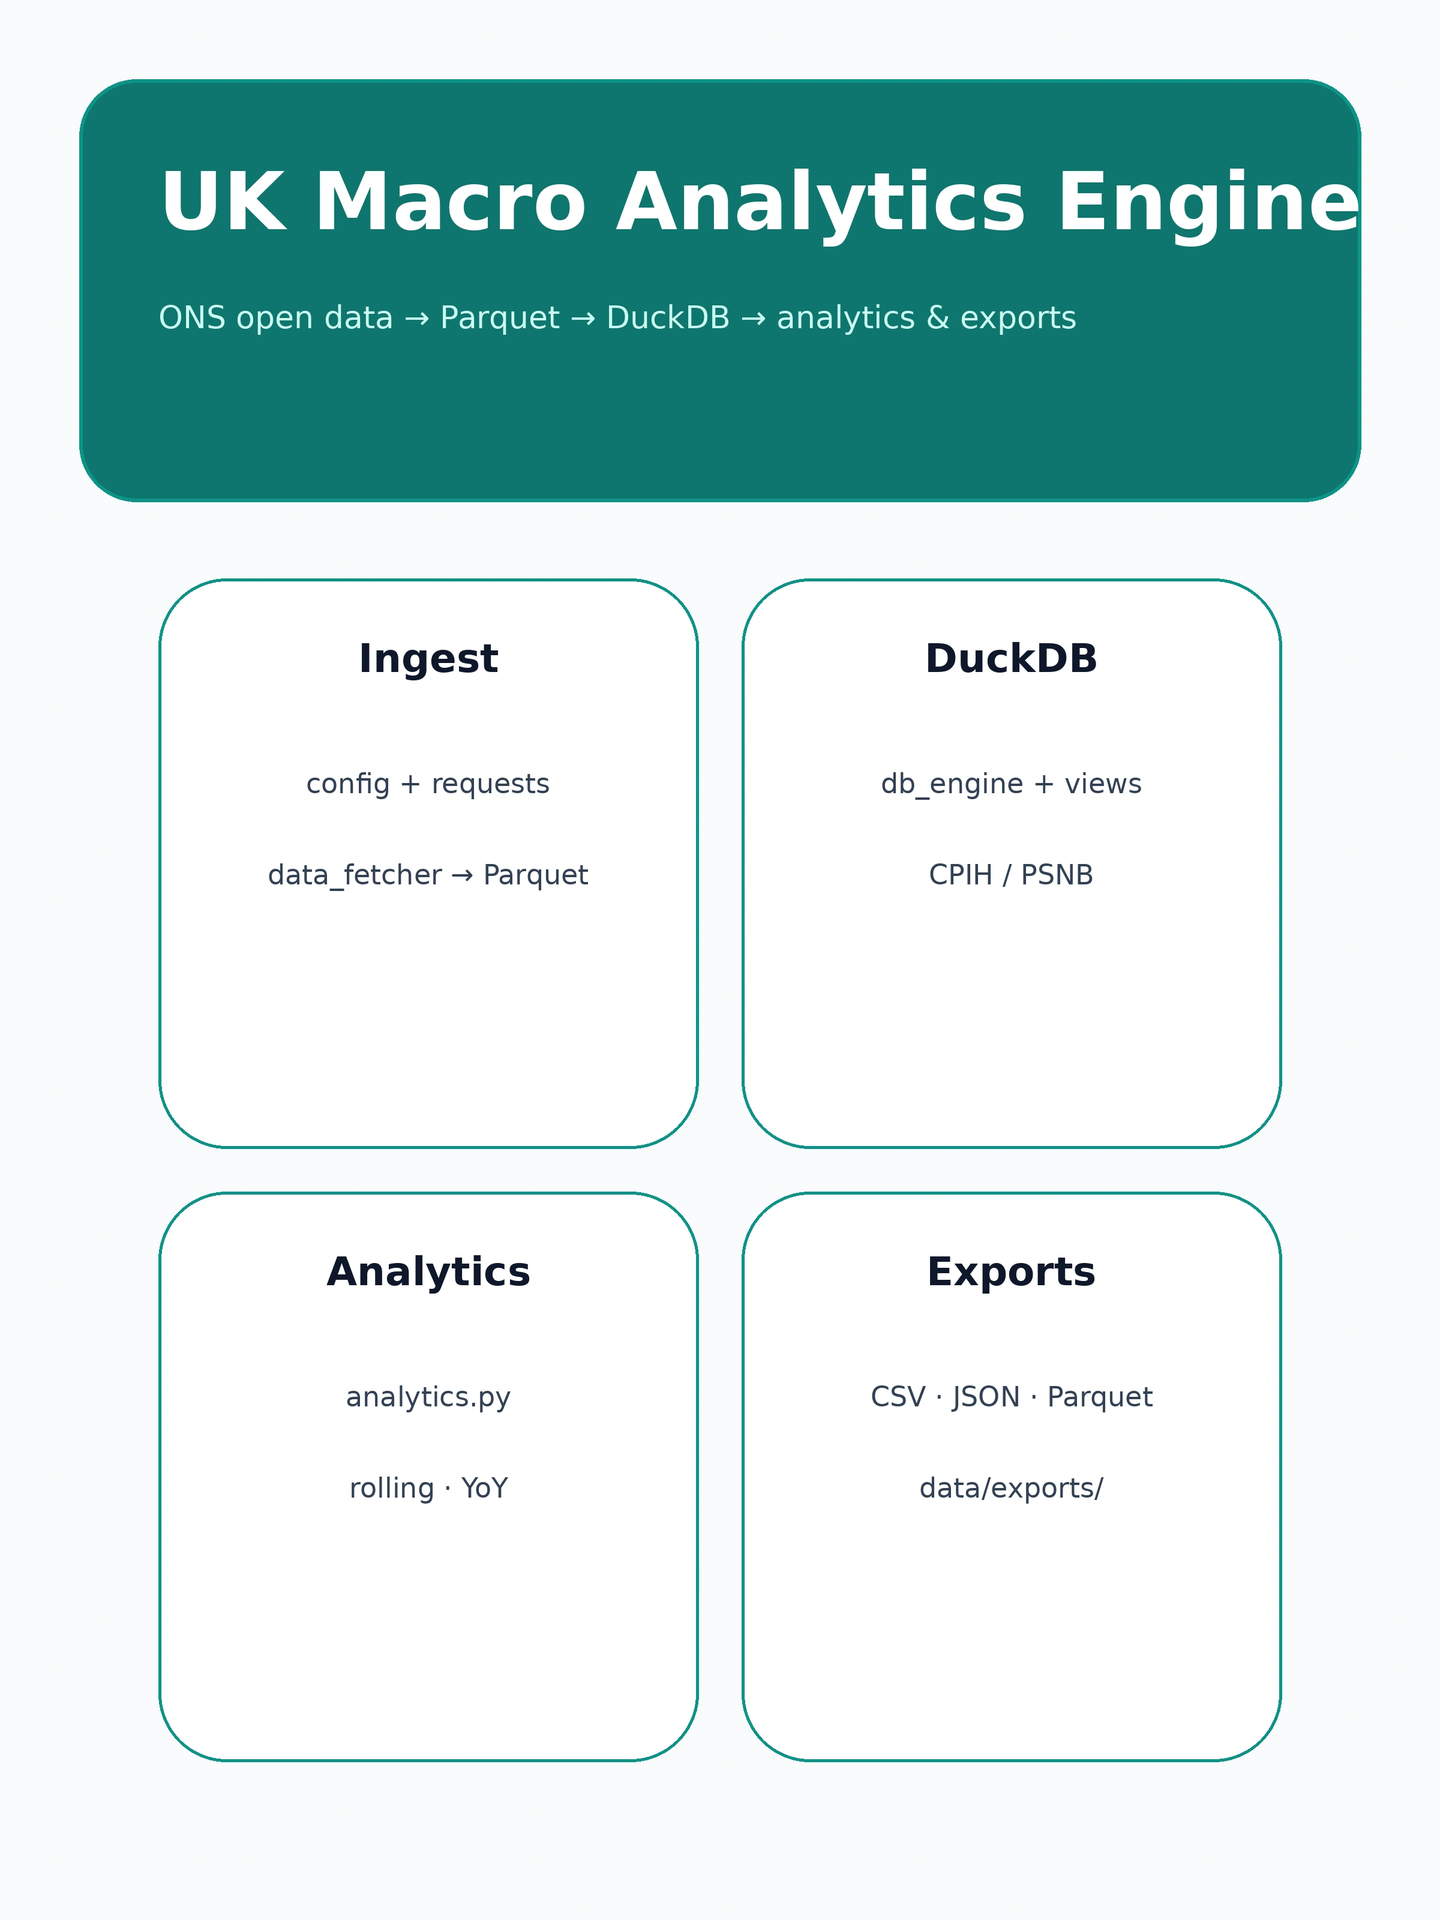
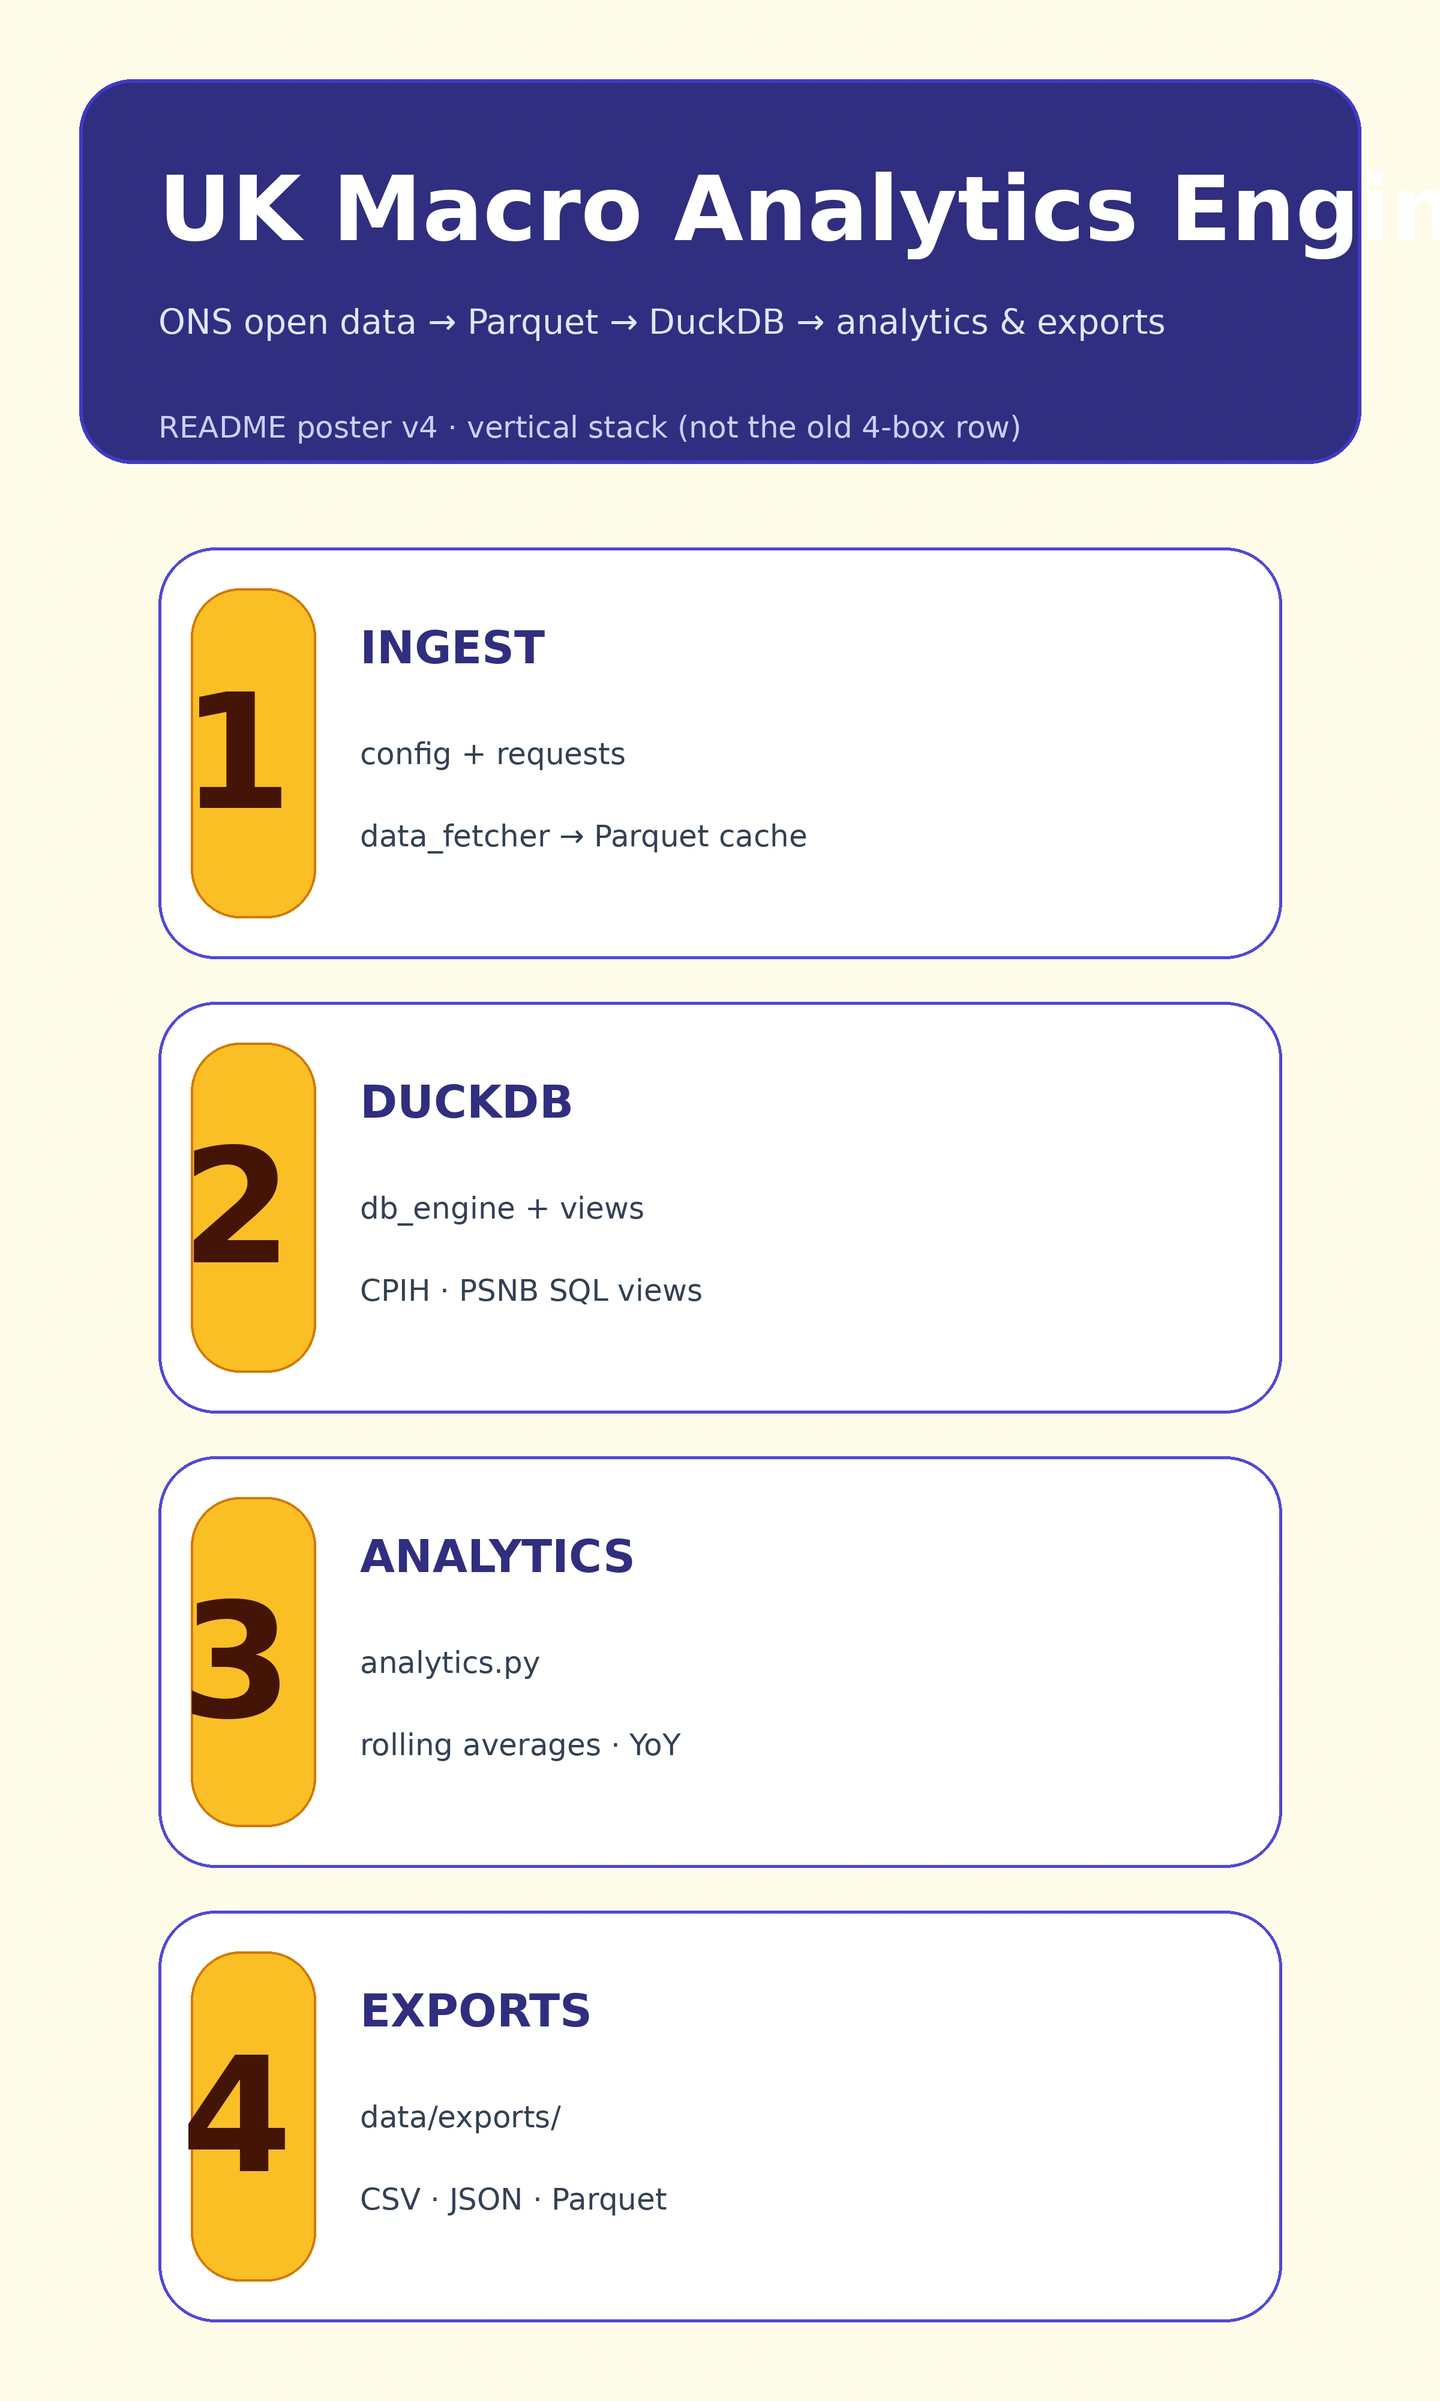
docs: distinct poster v4 graphics + cache-busting for README images
- Hero: indigo header and numbered vertical steps (no four-box row).
- Architecture: matches SVG with badge numbers; warm poster background.
- README: ?v=4 on PNG URLs to defeat GitHub/Camo stale cache on mobile.

diff --git a/tools/regen_readme_images.py b/tools/regen_readme_images.py
@@ -21,16 +21,16 @@ from PIL import Image, ImageDraw, ImageFont
 
 ROOT = Path(__file__).resolve().parent.parent
 
-# Flat high-contrast palette (teal + slate) — solid fills read sharper than gradients
-# when GitHub scales images on narrow viewports.
-BG = (248, 250, 252)  # slate-50
-HEADER = (15, 118, 110)  # teal-700
-HEADER_STROKE = (13, 148, 136)  # teal-600
+# High-contrast “poster” palette — indigo header reads very different from earlier teal banners.
+BG = (254, 252, 232)  # amber-50 (warm canvas)
+HEADER = (49, 46, 129)  # indigo-900
+HEADER_STROKE = (67, 56, 202)  # indigo-700
+ACCENT_BADGE = (251, 191, 36)  # amber-400 (step numbers)
 TEXT = (15, 23, 42)  # slate-900
 TEXT_MUTED = (51, 65, 85)  # slate-700
 CARD = (255, 255, 255)
-OUTLINE = (13, 148, 136)  # teal-600
-SUBTITLE_ON_HEADER = (204, 251, 241)  # teal-100
+OUTLINE = (79, 70, 229)  # indigo-600
+SUBTITLE_ON_HEADER = (224, 231, 255)  # indigo-100
 
 
 def _fonts(
@@ -48,6 +48,13 @@ def _fonts(
         return d, d, d, d
 
 
+def _font_bold(px: int) -> ImageFont.FreeTypeFont:
+    try:
+        return ImageFont.truetype("/usr/share/fonts/truetype/dejavu/DejaVuSans-Bold.ttf", px)
+    except OSError:
+        return ImageFont.load_default()
+
+
 def _save_webp(img: Image.Image, path: Path, quality: int = 93) -> None:
     img.save(path, format="WEBP", quality=quality, method=6)
 
@@ -57,157 +64,223 @@ def _save_png(img: Image.Image, path: Path) -> None:
 
 
 def render_hero(width: int = 2400) -> Image.Image:
-    """Tall poster: large title block + 2×2 stage grid (readable on narrow screens)."""
-    # 3:4 portrait — lots of vertical space for type at full README width
-    height = int(width * 4 / 3)
+    """Tall poster: indigo header + numbered vertical stack (unmistakable vs old 4-pill row)."""
+    height = int(width * 5 / 3)
     img = Image.new("RGB", (width, height), color=BG)
     d = ImageDraw.Draw(img)
 
     pad = int(width * 0.055)
-    title_h = int(height * 0.22)
-    f_title, f_sub, f_pill, f_small = _fonts(
-        max(64, width // 18),
-        max(34, width // 46),
-        max(40, width // 36),
-        max(28, width // 52),
+    title_h = int(height * 0.16)
+    f_title, f_sub, f_big, f_line = _fonts(
+        max(72, width // 16),
+        max(36, width // 42),
+        max(44, width // 32),
+        max(30, width // 48),
     )
+    f_step = _font_bold(max(110, width // 9))
 
-    # Title strip — solid teal for maximum contrast
     d.rounded_rectangle(
         [pad, pad, width - pad, pad + title_h],
-        radius=int(height * 0.03),
+        radius=int(height * 0.022),
         fill=HEADER,
         outline=HEADER_STROKE,
-        width=max(3, width // 400),
+        width=max(4, width // 380),
     )
     title = "UK Macro Analytics Engine"
-    d.text((pad * 2, pad + int(title_h * 0.18)), title, fill=(255, 255, 255), font=f_title)
+    d.text((pad * 2, pad + int(title_h * 0.2)), title, fill=(255, 255, 255), font=f_title)
 
-    sub_y = pad + int(title_h * 0.52)
+    sub_y = pad + int(title_h * 0.58)
     subtitle = "ONS open data → Parquet → DuckDB → analytics & exports"
     d.text((pad * 2, sub_y), subtitle, fill=SUBTITLE_ON_HEADER, font=f_sub)
+    d.text(
+        (pad * 2, sub_y + int(title_h * 0.28)),
+        "README poster v4 · vertical stack (not the old 4-box row)",
+        fill=(199, 210, 254),
+        font=f_line,
+    )
 
-    # 2×2 grid — each cell is a mini “poster” panel
-    gap = int(width * 0.03)
-    grid_top = pad + title_h + int(height * 0.04)
-    inner_left = pad * 2
-    inner_w = width - 4 * pad
-    cell_w = (inner_w - gap) // 2
-    cell_h = int((height - grid_top - pad * 2 - gap) / 2)
+    gap = int(height * 0.018)
+    stack_top = pad + title_h + int(height * 0.035)
+    stack_h = height - stack_top - pad
+    n = 4
+    row_h = (stack_h - gap * (n - 1)) // n
+    inner_x = pad * 2
+    inner_w = width - pad * 4
+    badge_w = int(inner_w * 0.14)
 
-    panels: list[tuple[int, int, str, list[str]]] = [
-        (0, 0, "Ingest", ["config + requests", "data_fetcher → Parquet"]),
-        (1, 0, "DuckDB", ["db_engine + views", "CPIH / PSNB"]),
-        (0, 1, "Analytics", ["analytics.py", "rolling · YoY"]),
-        (1, 1, "Exports", ["CSV · JSON · Parquet", "data/exports/"]),
+    stages: list[tuple[str, str, list[str]]] = [
+        ("1", "INGEST", ["config + requests", "data_fetcher → Parquet cache"]),
+        ("2", "DUCKDB", ["db_engine + views", "CPIH · PSNB SQL views"]),
+        ("3", "ANALYTICS", ["analytics.py", "rolling averages · YoY"]),
+        ("4", "EXPORTS", ["data/exports/", "CSV · JSON · Parquet"]),
     ]
 
-    for col, row, lab, lines in panels:
-        x1 = inner_left + col * (cell_w + gap)
-        y1 = grid_top + row * (cell_h + gap)
+    y = stack_top
+    for num, head, lines in stages:
+        x1 = inner_x
+        x2 = x1 + inner_w
         d.rounded_rectangle(
-            [x1, y1, x1 + cell_w, y1 + cell_h],
-            radius=int(cell_h * 0.12),
+            [x1, y, x2, y + row_h],
+            radius=int(row_h * 0.14),
             fill=CARD,
             outline=OUTLINE,
-            width=max(2, width // 450),
+            width=max(3, width // 420),
         )
-        cx = x1 + cell_w // 2
-        ty = y1 + int(cell_h * 0.14)
-        d.text((cx, ty), lab, fill=TEXT, font=f_pill, anchor="mm")
-        ly = ty + int(cell_h * 0.22)
+        bx2 = x1 + badge_w
+        d.rounded_rectangle(
+            [x1 + int(row_h * 0.08), y + int(row_h * 0.1), bx2, y + row_h - int(row_h * 0.1)],
+            radius=int(row_h * 0.12),
+            fill=ACCENT_BADGE,
+            outline=(217, 119, 6),
+            width=max(2, width // 500),
+        )
+        d.text(
+            ((x1 + bx2) / 2, y + row_h // 2),
+            num,
+            fill=(67, 20, 7),
+            font=f_step,
+            anchor="mm",
+        )
+        tx = bx2 + int(inner_w * 0.04)
+        ty = y + int(row_h * 0.18)
+        d.text((tx, ty), head, fill=HEADER, font=f_big)
+        ly = ty + int(row_h * 0.28)
         for line in lines:
-            d.text((cx, ly), line, fill=TEXT_MUTED, font=f_small, anchor="mm")
-            ly += int(cell_h * 0.16)
+            d.text((tx, ly), line, fill=TEXT_MUTED, font=f_line)
+            ly += int(row_h * 0.2)
+        y += row_h + gap
 
     return img
 
 
 def render_architecture(width: int = 1440) -> Image.Image:
-    """Tall poster: stages stacked top-to-bottom with down arrows (matches architecture.svg)."""
-    # Same aspect as SVG viewBox 720×2000
+    """Tall poster: numbered stages + down arrows (matches architecture.svg)."""
     height = int(width * 2000 / 720)
     img = Image.new("RGB", (width, height), color=BG)
     d = ImageDraw.Draw(img)
 
-    margin = max(24, width // 25)
+    margin = max(26, width // 22)
+    outer_r = int(width * 0.028)
     d.rounded_rectangle(
         [margin, margin, width - margin, height - margin],
-        radius=int(width * 0.028),
-        outline=HEADER,
-        width=max(4, width // 240),
-        fill=(255, 255, 255),
+        radius=outer_r,
+        outline=HEADER_STROKE,
+        width=max(4, width // 200),
+        fill=BG,
     )
 
-    iw = width - 2 * margin
-    s = iw / 720.0
+    inner_l = margin + int(width * 0.044)
+    inner_r = width - margin - int(width * 0.044)
+    iw = inner_r - inner_l
 
     try:
-        f_h = ImageFont.truetype(
-            "/usr/share/fonts/truetype/dejavu/DejaVuSans-Bold.ttf", max(36, int(32 * s))
+        f_banner_title = _font_bold(max(34, int(width * 0.022)))
+        f_banner_sub = ImageFont.truetype(
+            "/usr/share/fonts/truetype/dejavu/DejaVuSans.ttf", max(18, int(width * 0.012))
         )
-        f_b = ImageFont.truetype(
-            "/usr/share/fonts/truetype/dejavu/DejaVuSans-Bold.ttf", max(28, int(26 * s))
+        f_head = _font_bold(max(28, int(width * 0.019)))
+        f_line = ImageFont.truetype(
+            "/usr/share/fonts/truetype/dejavu/DejaVuSans.ttf", max(22, int(width * 0.015))
         )
-        f_t = ImageFont.truetype(
-            "/usr/share/fonts/truetype/dejavu/DejaVuSans.ttf", max(22, int(22 * s))
-        )
+        f_step = _font_bold(max(72, int(width * 0.052)))
     except OSError:
-        f_h = f_b = f_t = ImageFont.load_default()
+        f_banner_title = f_head = f_step = ImageFont.load_default()
+        f_banner_sub = f_line = ImageFont.load_default()
 
-    hx = margin + int(40 * s)
-    hy = margin + int(36 * s)
-    d.text((hx, hy), "Architecture", fill=TEXT, font=f_h)
+    banner_h = int(height * 0.075)
+    banner_top = margin + int(height * 0.02)
+    d.rounded_rectangle(
+        [inner_l, banner_top, inner_r, banner_top + banner_h],
+        radius=int(banner_h * 0.12),
+        fill=HEADER,
+        outline=HEADER_STROKE,
+        width=max(2, width // 300),
+    )
     d.text(
-        (hx, hy + int(48 * s)),
-        "Poster layout for mobile · vector: architecture.svg",
-        fill=TEXT_MUTED,
-        font=f_t,
+        (inner_l + int(iw * 0.04), banner_top + int(banner_h * 0.32)),
+        "Architecture",
+        fill=(255, 255, 255),
+        font=f_banner_title,
+    )
+    d.text(
+        (inner_l + int(iw * 0.04), banner_top + int(banner_h * 0.68)),
+        "Poster v4 · stacked pipeline · vector: architecture.svg",
+        fill=(199, 210, 254),
+        font=f_banner_sub,
     )
 
-    cx = width / 2
-    content_top = hy + int(92 * s)
-    content_bottom = height - margin - int(28 * s)
+    content_top = banner_top + banner_h + int(height * 0.028)
+    content_bottom = height - margin - int(height * 0.022)
 
-    stages: list[tuple[str, list[str], tuple[int, int, int], tuple[int, int, int], float]] = [
-        ("Ingestion", ["config + requests", "data_fetcher", "Parquet cache", "ONS CSV → validated Parquet"], (240, 253, 250), HEADER, 0.21),
-        ("Storage", ["DuckDB", "db_engine + views", "v_cpih_core", "v_psnb_monthly", "SQL views over Parquet"], (224, 242, 254), (3, 105, 161), 0.24),
-        ("Analytics", ["analytics.py", "rolling · YoY", "Parquet + JSON", "metrics for dashboards / exports"], (255, 247, 237), (194, 65, 12), 0.21),
-        ("Exports", ["data/exports/", "CSV · JSON · Parquet", "report + optional Streamlit"], (220, 252, 231), (22, 101, 52), 0.18),
+    stages = [
+        ("1", "INGESTION", ["config + requests", "data_fetcher", "Parquet cache", "ONS CSV → validated Parquet"], (240, 253, 250), HEADER),
+        (
+            "2",
+            "STORAGE",
+            ["DuckDB", "db_engine + views", "v_cpih_core", "v_psnb_monthly", "SQL views over Parquet"],
+            (224, 231, 255),
+            (29, 78, 216),
+        ),
+        (
+            "3",
+            "ANALYTICS",
+            ["analytics.py", "rolling · YoY", "Parquet + JSON", "metrics for dashboards / exports"],
+            (255, 247, 237),
+            (194, 65, 12),
+        ),
+        ("4", "EXPORTS", ["data/exports/", "CSV · JSON · Parquet", "report + optional Streamlit"], (220, 252, 231), (22, 101, 52)),
     ]
 
-    arrow_h = int((content_bottom - content_top) * 0.028)
-    n_stages = len(stages)
-    total_frac = sum(t[4] for t in stages)
-    body_h = content_bottom - content_top - arrow_h * (n_stages - 1)
-    y = content_top
+    fracs = (0.195, 0.22, 0.195, 0.175)
+    arrow_h = int((content_bottom - content_top) * 0.026)
+    total_body = content_bottom - content_top - arrow_h * (len(stages) - 1)
+
+    cx = (inner_l + inner_r) / 2
+    y = float(content_top)
 
     def down_arrow(y_top: float) -> None:
         ya = y_top
-        yb = ya + arrow_h - 4
-        d.line([(cx, ya), (cx, yb)], fill=HEADER_STROKE, width=max(5, int(5 * s)))
-        ah = 14 * s
-        d.polygon([(cx, ya + arrow_h), (cx - ah, yb), (cx + ah, yb)], fill=HEADER_STROKE)
+        yb = ya + arrow_h - 6
+        d.line([(cx, ya), (cx, yb)], fill=HEADER_STROKE, width=max(5, width // 220))
+        ah = width * 0.022
+        d.polygon([(cx, y_top + arrow_h), (cx - ah, yb), (cx + ah, yb)], fill=HEADER_STROKE)
 
-    for i, (title, lines, fill, stroke, frac) in enumerate(stages):
-        blk_h = int(body_h * (frac / total_frac))
-        x1 = margin + int(40 * s)
-        x2 = width - margin - int(40 * s)
+    for i, (num, title, lines, fill, stroke) in enumerate(stages):
+        blk_h = int(total_body * fracs[i])
+        x1, x2 = inner_l, inner_r
         d.rounded_rectangle(
-            [x1, y, x2, y + blk_h],
-            radius=int(16 * s),
+            [x1, int(y), x2, int(y) + blk_h],
+            radius=int(width * 0.022),
             fill=fill,
             outline=stroke,
-            width=max(3, int(3 * s)),
+            width=max(3, width // 280),
         )
-        d.text((cx, y + int(blk_h * 0.12)), title, fill=TEXT, font=f_b, anchor="mm")
-        ly = y + int(blk_h * 0.28)
-        line_step = max(int(blk_h * 0.11), int(22 * s))
+        pad_x = int(iw * 0.045)
+        badge_w = int(iw * 0.13)
+        bx1 = x1 + pad_x
+        bx2 = bx1 + badge_w
+        by1 = int(y) + int(blk_h * 0.12)
+        by2 = int(y) + blk_h - int(blk_h * 0.12)
+        d.rounded_rectangle(
+            [bx1, by1, bx2, by2],
+            radius=int(blk_h * 0.08),
+            fill=ACCENT_BADGE,
+            outline=(180, 83, 9),
+            width=max(2, width // 400),
+        )
+        d.text(((bx1 + bx2) / 2, (by1 + by2) / 2), num, fill=(67, 20, 7), font=f_step, anchor="mm")
+
+        tx = bx2 + int(iw * 0.035)
+        ty = int(y) + int(blk_h * 0.16)
+        d.text((tx, ty), title, fill=HEADER, font=f_head)
+        ly = ty + int(blk_h * 0.2)
+        step = int(blk_h * 0.14)
         for line in lines:
-            d.text((cx, ly), line, fill=TEXT_MUTED, font=f_t, anchor="mm")
-            ly += line_step
+            d.text((tx, ly), line, fill=TEXT_MUTED, font=f_line)
+            ly += step
+
         y += blk_h
-        if i < n_stages - 1:
+        if i < len(stages) - 1:
             down_arrow(y)
             y += arrow_h
 

diff --git a/README.md b/README.md
@@ -21,9 +21,10 @@
 
 <p align="center">
   <!-- Explicit ./ link keeps “open image” on the same branch/PR; bare <img> often links to default branch. -->
-  <a href="./hero.png" title="hero.png (this branch)">
+  <!-- ?v= bumps GitHub’s image CDN when the PNG bytes change (otherwise it can look “stuck”). -->
+  <a href="./hero.png?v=4" title="hero.png (this branch)">
     <img
-      src="./hero.png"
+      src="./hero.png?v=4"
       alt="UK Macro Analytics Engine banner"
       width="100%"
       decoding="async"
@@ -75,9 +76,9 @@
 </pre>
 
 <p align="center">
-  <a href="./architecture.png" title="architecture.png (this branch)">
+  <a href="./architecture.png?v=4" title="architecture.png (this branch)">
     <img
-      src="./architecture.png"
+      src="./architecture.png?v=4"
       alt="Architecture diagram: Ingestion, DuckDB, Analytics, Exports"
       width="100%"
       loading="lazy"
@@ -230,7 +231,7 @@ pip install pillow
 python3 tools/regen_readme_images.py
 ```
 
-Wrap README images in `<a href="./hero.png">` if you want taps on GitHub to open the file **on the current branch** (bare `<img>` links are often tied to the default branch). Vector: [`architecture.svg`](./architecture.svg).
+Wrap README images in `<a href="./hero.png?v=…">` if you want taps on GitHub to open the file **on the current branch** (bare `<img>` links are often tied to the default branch). Bump `?v=` when you replace PNG bytes so the mobile app does not show a cached copy. Vector: [`architecture.svg`](./architecture.svg).
 
 ---
 
